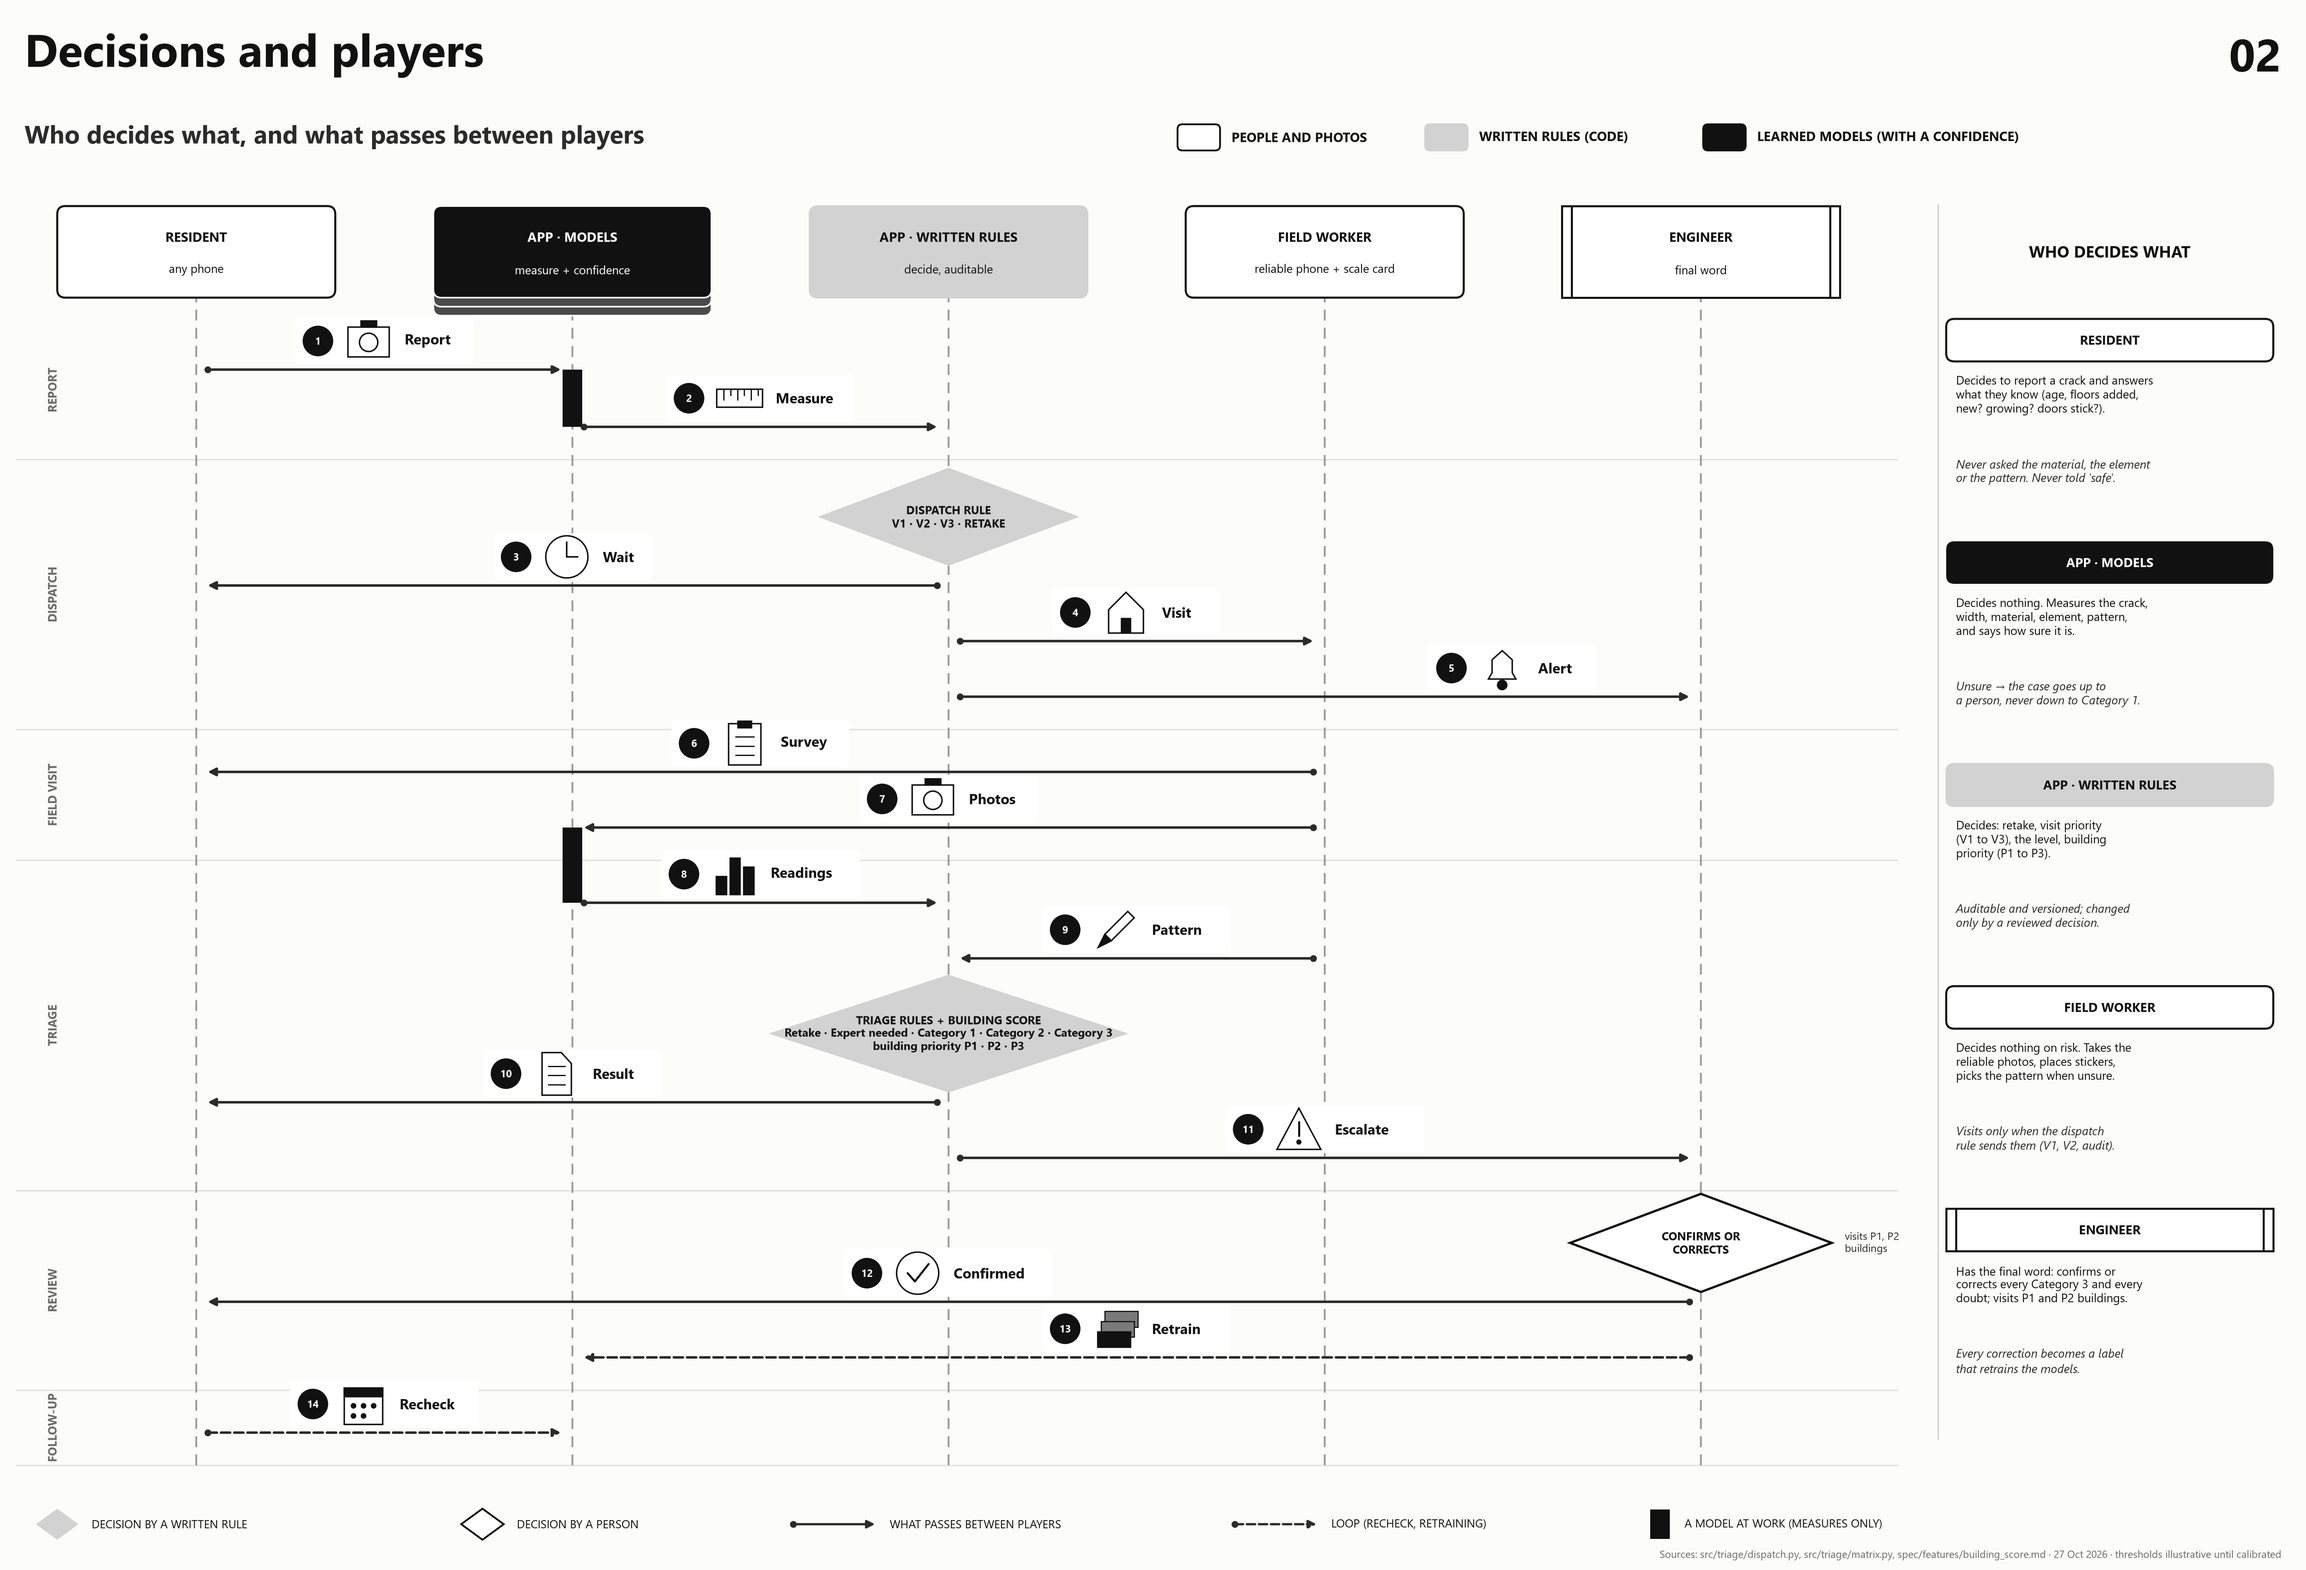
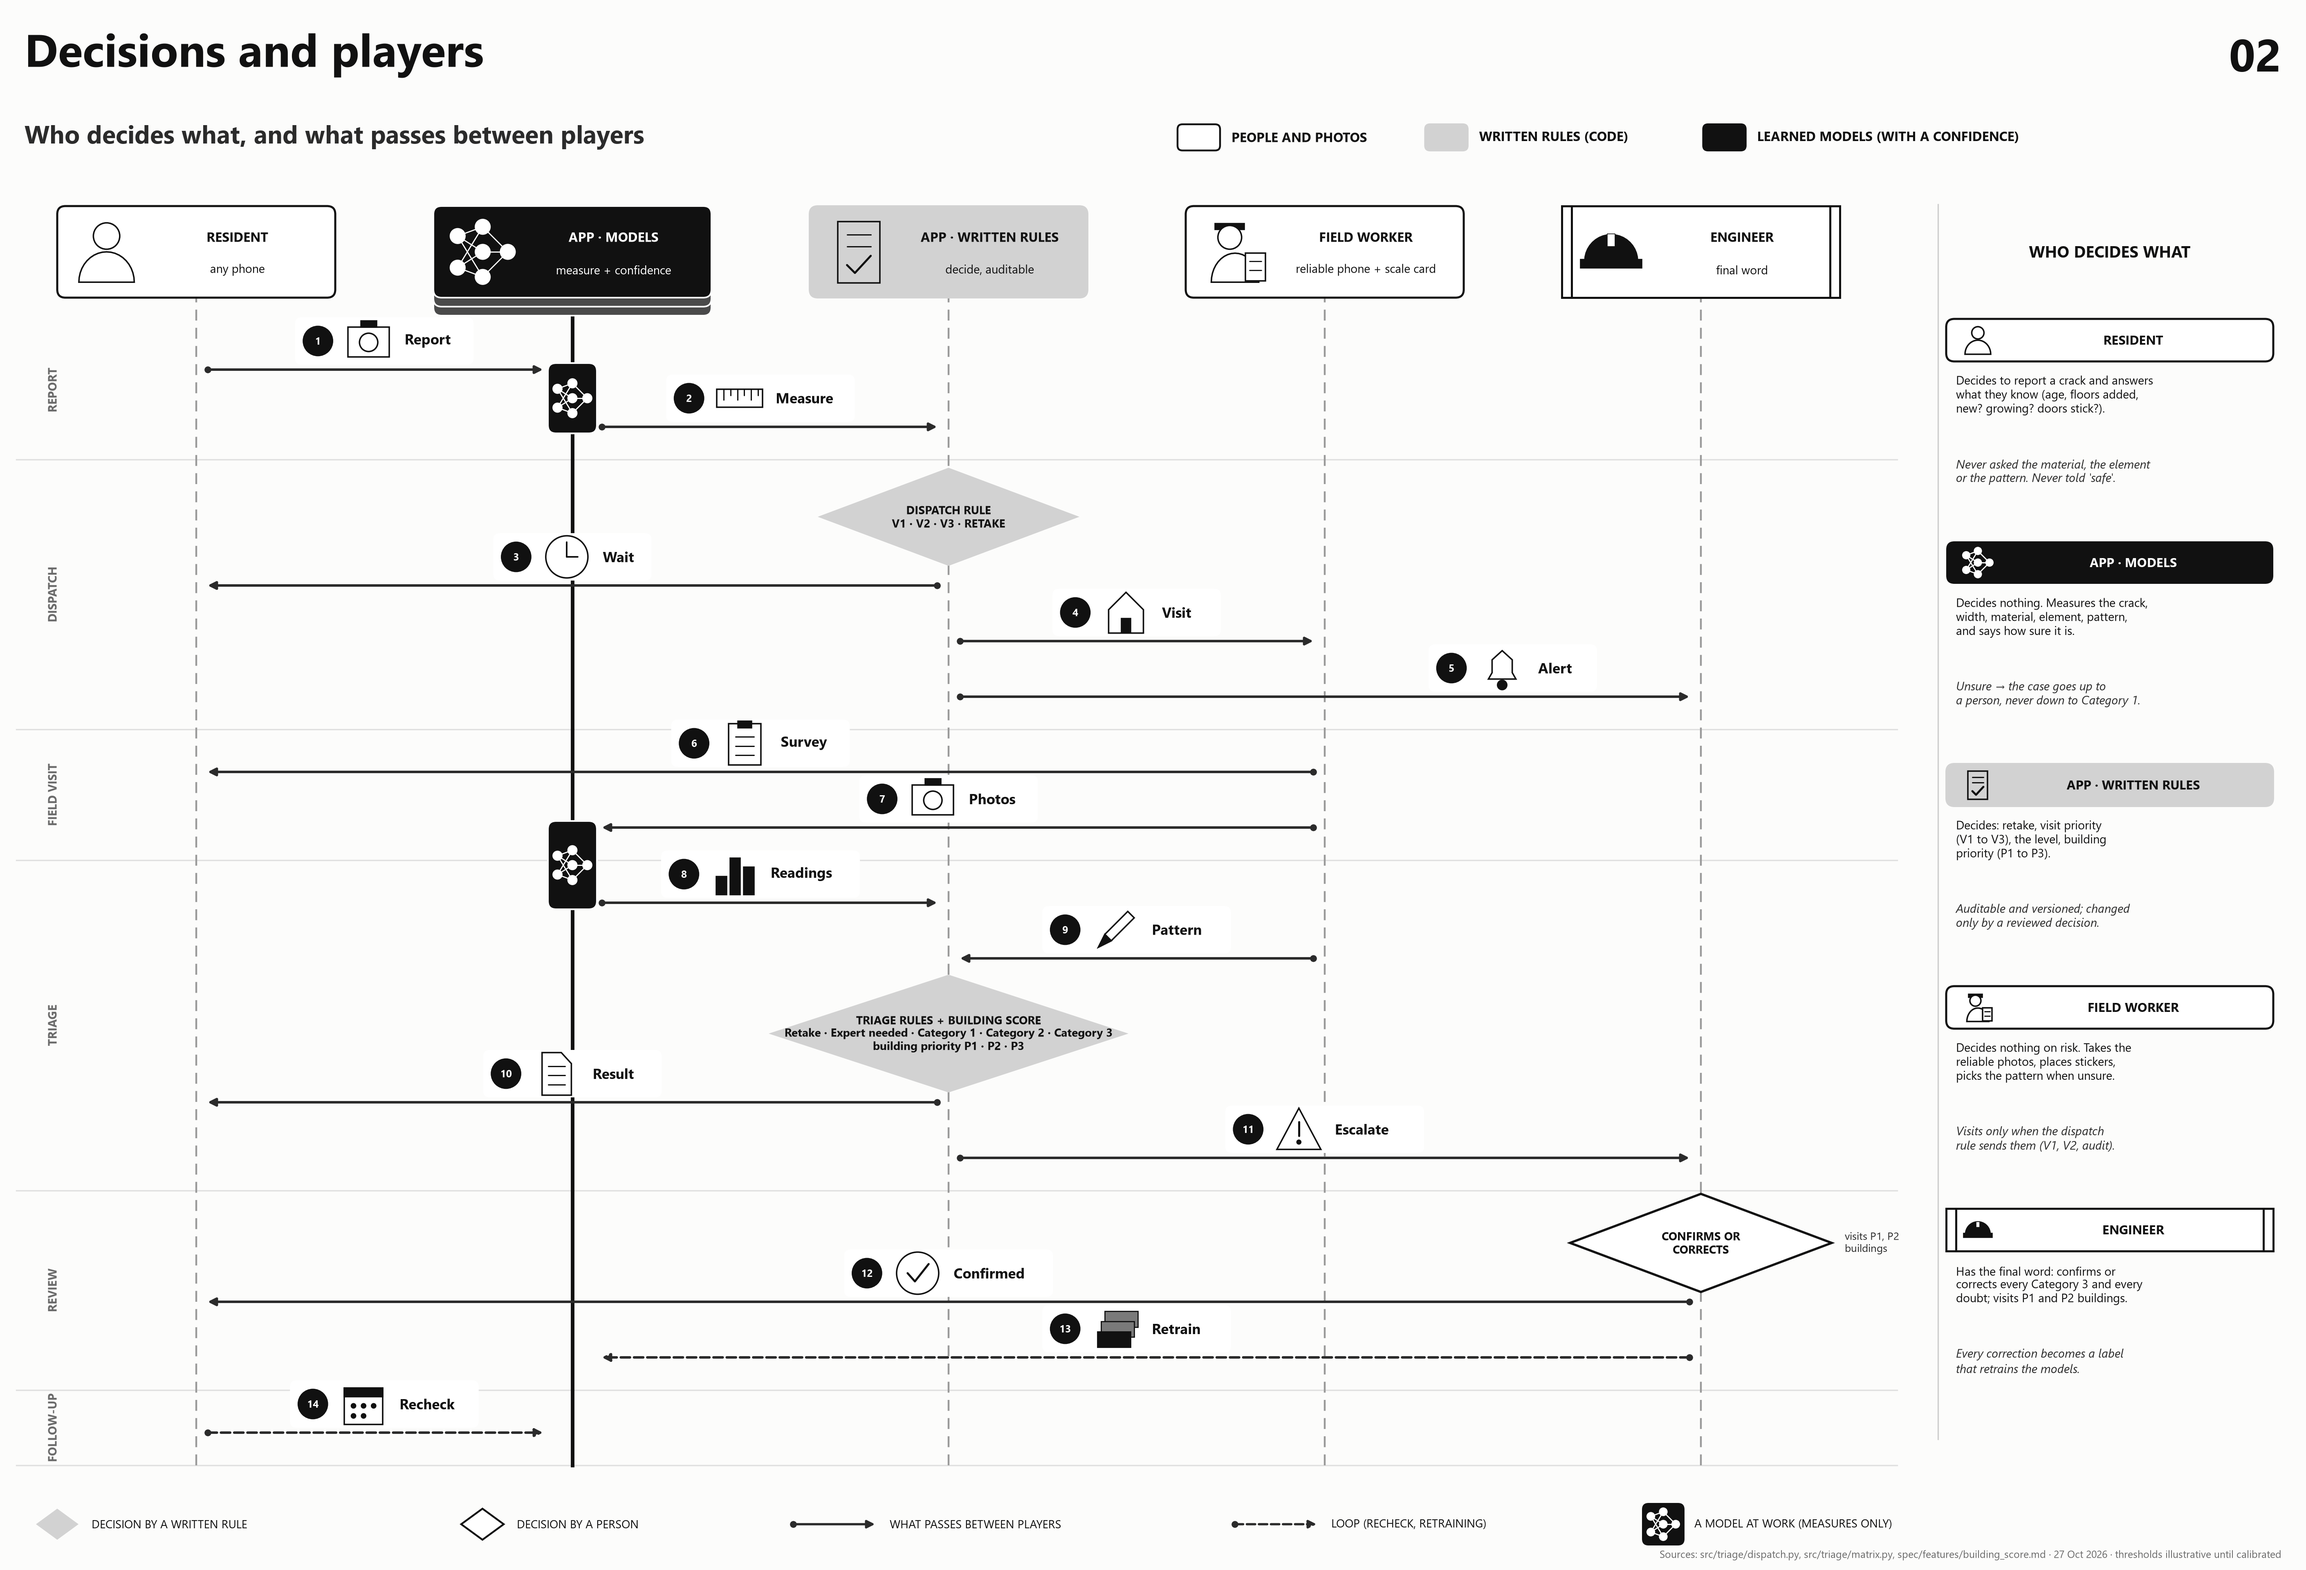
Decisions and players: a symbol for each player; app models more visible (solid black lifeline, network symbol, wider work boxes)

diff --git a/src/viz/figures.py b/src/viz/figures.py
@@ -203,6 +203,8 @@ def pipeline():
 # Decisions are diamonds on the lifeline of the player who decides (written rules, engineer); models only measure.
 # Sources: src/triage/dispatch.py, src/triage/matrix.py, spec/features/building_score.md, spec/features/pipeline.md.
 PLAYERS = {"R": 12.0, "M": 35.0, "W": 58.0, "F": 81.0, "E": 104.0}  # lifeline x
+PLAYER_ICON = {"RESIDENT": "person", "APP · MODELS": "network", "APP · WRITTEN RULES": "rulebook",
+               "FIELD WORKER": "worker", "ENGINEER": "hardhat"}
 PLAYER_HEADS = [("R", "photo", "RESIDENT", "any phone"), ("M", "model", "APP · MODELS", "measure + confidence"),
                 ("W", "rule", "APP · WRITTEN RULES", "decide, auditable"),
                 ("F", "photo", "FIELD WORKER", "reliable phone + scale card"), ("E", "term", "ENGINEER", "final word")]
@@ -226,26 +228,33 @@ HANDOFFS = [
 ]
 
 
-def _handoff_icon(ax, key, cx, cy, s=2.8):
-    """Small black-and-white symbol for a hand-off between players, in an s x s box centred on (cx, cy)."""
-    K, u = "#111111", s / 10.0
+def _handoff_icon(ax, key, cx, cy, s=2.8, ink="#111111", paper="white"):
+    """Small black-and-white symbol for a player or a hand-off, in an s x s box centred on (cx, cy).
+    ink and paper swap for a symbol drawn on a black box (the models)."""
+    K, W, u = ink, paper, s / 10.0
 
     def P(x, y):
         return cx - s / 2 + x * u, cy - s / 2 + y * u
 
-    def rect(x, y, w, h, fc="white", lw=1.3):
-        ax.add_patch(matplotlib.patches.Rectangle(P(x, y), w * u, h * u, facecolor=fc, edgecolor=K, lw=lw, zorder=7))
+    def rect(x, y, w, h, fc=None, lw=1.3):
+        ax.add_patch(matplotlib.patches.Rectangle(P(x, y), w * u, h * u, facecolor=fc or W, edgecolor=K, lw=lw,
+                                                  zorder=7))
 
-    def poly(pts, fc="white", lw=1.3):
-        ax.add_patch(matplotlib.patches.Polygon([P(*q) for q in pts], closed=True, facecolor=fc, edgecolor=K, lw=lw,
-                                                zorder=7))
+    def poly(pts, fc=None, lw=1.3):
+        ax.add_patch(matplotlib.patches.Polygon([P(*q) for q in pts], closed=True, facecolor=fc or W, edgecolor=K,
+                                                lw=lw, zorder=7))
 
     def ln(pts, lw=1.4):
         xs, ys = zip(*[P(*q) for q in pts])
         ax.plot(xs, ys, color=K, lw=lw, zorder=8, solid_capstyle="round")
 
-    def circ(x, y, r, fc="white", lw=1.3):
-        ax.add_patch(plt.Circle(P(x, y), r * u, facecolor=fc, edgecolor=K, lw=lw, zorder=8))
+    def circ(x, y, r, fc=None, lw=1.3):
+        ax.add_patch(plt.Circle(P(x, y), r * u, facecolor=fc or W, edgecolor=K, lw=lw, zorder=8))
+
+    def shoulders(y_top, half):
+        theta = [i / 20 * 3.14159 for i in range(21)]
+        import math
+        poly([(5 + half * math.cos(t), 0.4 + (y_top - 0.4) * math.sin(t)) for t in theta], fc=W)
 
     if key == "camera":
         rect(0.5, 1.5, 9, 6.5)
@@ -290,6 +299,35 @@ def _handoff_icon(ax, key, cx, cy, s=2.8):
     elif key == "layers":
         for k in (2, 1, 0):
             rect(1 + k * 0.8, 1 + k * 2.2, 7.2, 3.4, fc=K if k == 0 else "#7a7a7a", lw=1.0)
+    elif key == "network":  # the learned models: a small neural network
+        nodes = [[(1.2, 2.6), (1.2, 7.4)], [(5, 1.2), (5, 5), (5, 8.8)], [(8.8, 5)]]
+        for left, right in zip(nodes, nodes[1:]):
+            for a in left:
+                for b in right:
+                    ln([a, b], lw=1.0)
+        for layer in nodes:
+            for x, y in layer:
+                circ(x, y, 1.1, fc=K)
+    elif key == "person":  # the resident
+        circ(5, 7.4, 2.0)
+        shoulders(5.0, 4.2)
+    elif key == "worker":  # the field worker: a cap and a clipboard
+        circ(4.2, 7.2, 1.8)
+        rect(2.0, 8.4, 4.4, 0.9, fc=K)
+        shoulders(4.8, 3.6)
+        rect(6.6, 0.6, 3.0, 4.2)
+        ln([(7.2, 3.6), (9.0, 3.6)], lw=1.0)
+        ln([(7.2, 2.2), (9.0, 2.2)], lw=1.0)
+    elif key == "hardhat":  # the engineer
+        import math
+        poly([(5 + 4.0 * math.cos(i / 20 * math.pi), 3.6 + 4.0 * math.sin(i / 20 * math.pi)) for i in range(21)], fc=K)
+        rect(0.4, 2.6, 9.2, 1.2, fc=K)
+        rect(4.4, 5.8, 1.2, 1.9, fc=W, lw=0.6)
+    elif key == "rulebook":  # the written rules: a rule sheet with a tick
+        poly([(1.8, 0.3), (8.2, 0.3), (8.2, 9.6), (1.8, 9.6)])
+        for y in (7.6, 5.8):
+            ln([(3.2, y), (6.8, y)], lw=1.1)
+        ln([(3.2, 3.0), (4.4, 1.8), (6.8, 4.4)], lw=1.8)
     elif key == "calendar":
         rect(0.8, 0.5, 8.4, 8.0)
         rect(0.8, 6.6, 8.4, 1.9, fc=K)
@@ -343,11 +381,15 @@ def decisions_and_players():
         else:
             terminal(cx, cy, w, h, "")
         ink = "white" if kind.startswith("model") else FLOW_INK
+        paper = FLOW_MODEL if kind.startswith("model") else ("#d2d2d2" if kind == "rule" else "white")
+        icon_s = min(h * 0.72, 4.2)
+        _handoff_icon(ax, PLAYER_ICON[name], cx - w / 2 + 1.0 + icon_s / 2, cy, s=icon_s, ink=ink, paper=paper)
+        tx = cx + (icon_s + 1.0) / 2
         if sub:
-            label(cx, cy + 0.9, name, size=size, colour=ink, weight="bold")
-            label(cx, cy - 1.1, sub, size=10.5, colour=ink)
+            label(tx, cy + 0.9, name, size=size, colour=ink, weight="bold")
+            label(tx, cy - 1.1, sub, size=10.5, colour=ink)
         else:
-            label(cx, cy, name, size=size, colour=ink, weight="bold")
+            label(tx, cy, name, size=size, colour=ink, weight="bold")
 
     # title, heading, colour key
     label(1.5, 92.6, "Decisions and players", size=40, weight="bold", ha="left")
@@ -365,20 +407,25 @@ def decisions_and_players():
     # players and lifelines
     for key, kind, name, sub in PLAYER_HEADS:
         head(kind, X[key], 80.6, 17.0, 5.6, name, sub)
-        ax.plot([X[key], X[key]], [6.4, 77.8], color="#9a9a9a", lw=1.6, ls=(0, (6, 4)), zorder=1)
+        if key == "M":  # the models: a solid black lifeline, so they stand out
+            ax.plot([X[key], X[key]], [6.4, 77.8], color=FLOW_MODEL, lw=3.2, zorder=1)
+        else:
+            ax.plot([X[key], X[key]], [6.4, 77.8], color="#9a9a9a", lw=1.6, ls=(0, (6, 4)), zorder=1)
     # phases (time goes down)
     for top, bottom, name in PHASES:
         ax.plot([1.0, 116.0], [bottom, bottom], color="#e0e0e0", lw=1.2, zorder=0)
         label(3.2, (top + bottom) / 2, name, size=10.5, weight="bold", colour=FLOW_SOFT, rotation=90)
     # models at work: black bars on the models lifeline
     for y0, y1 in ((73.4, 69.9), (45.4, 40.8)):
-        ax.add_patch(matplotlib.patches.Rectangle((X["M"] - 0.6, y1), 1.2, y0 - y1, facecolor=FLOW_MODEL,
-                                                  edgecolor="none", zorder=3))
+        ax.add_patch(FancyBboxPatch((X["M"] - 1.5, y1 - 0.4), 3.0, y0 - y1 + 0.8, boxstyle="round,pad=0,rounding_size=0.5",
+                                    facecolor=FLOW_MODEL, edgecolor="white", lw=1.5, zorder=3))
+        _handoff_icon(ax, "network", X["M"], (y0 + y1) / 2, s=2.4, ink="white", paper=FLOW_MODEL)
     # hand-offs
     for n, (y, a, b, icon, word, _meaning, dashed) in enumerate(HANDOFFS, start=1):
         x0, x1 = X[a], X[b]
-        step = 0.7 if x1 > x0 else -0.7
-        line([(x0 + step, y), (x1 - step, y)], ls="--" if dashed else "-", lw=2.2)
+        sign = 1 if x1 > x0 else -1
+        gap0, gap1 = (1.8 if a == "M" else 0.7), (1.8 if b == "M" else 0.7)  # clear of the models' work boxes
+        line([(x0 + sign * gap0, y), (x1 - sign * gap1, y)], ls="--" if dashed else "-", lw=2.2)
         # step number, symbol and one word, on a white tab above the arrow
         width = 1.8 + 0.8 + 2.8 + 0.8 + 0.62 * len(word)
         mid = (X["F"] + X["E"]) / 2 if word == "Alert" else (x0 + x1) / 2  # clear of arrow 4's head
@@ -416,8 +463,10 @@ def decisions_and_players():
     label(54.4, ly0, "WHAT PASSES BETWEEN PLAYERS", size=10, ha="left")
     line([(75.5, ly0), (80.5, ly0)], ls="--", lw=2.0)
     label(81.4, ly0, "LOOP (RECHECK, RETRAINING)", size=10, ha="left")
-    ax.add_patch(matplotlib.patches.Rectangle((100.9, ly0 - 0.9), 1.2, 1.8, facecolor=FLOW_MODEL, zorder=3))
-    label(103.0, ly0, "A MODEL AT WORK (MEASURES ONLY)", size=10, ha="left")
+    ax.add_patch(FancyBboxPatch((100.4, ly0 - 1.3), 2.6, 2.6, boxstyle="round,pad=0,rounding_size=0.4",
+                                facecolor=FLOW_MODEL, edgecolor="none", zorder=3))
+    _handoff_icon(ax, "network", 101.7, ly0, s=2.0, ink="white", paper=FLOW_MODEL)
+    label(103.6, ly0, "A MODEL AT WORK (MEASURES ONLY)", size=10, ha="left")
     label(139.5, 0.9, "Sources: src/triage/dispatch.py, src/triage/matrix.py, spec/features/building_score.md · "
           "27 Oct 2026 · thresholds illustrative until calibrated", size=9, colour=FLOW_SOFT, ha="right")
     return fig
